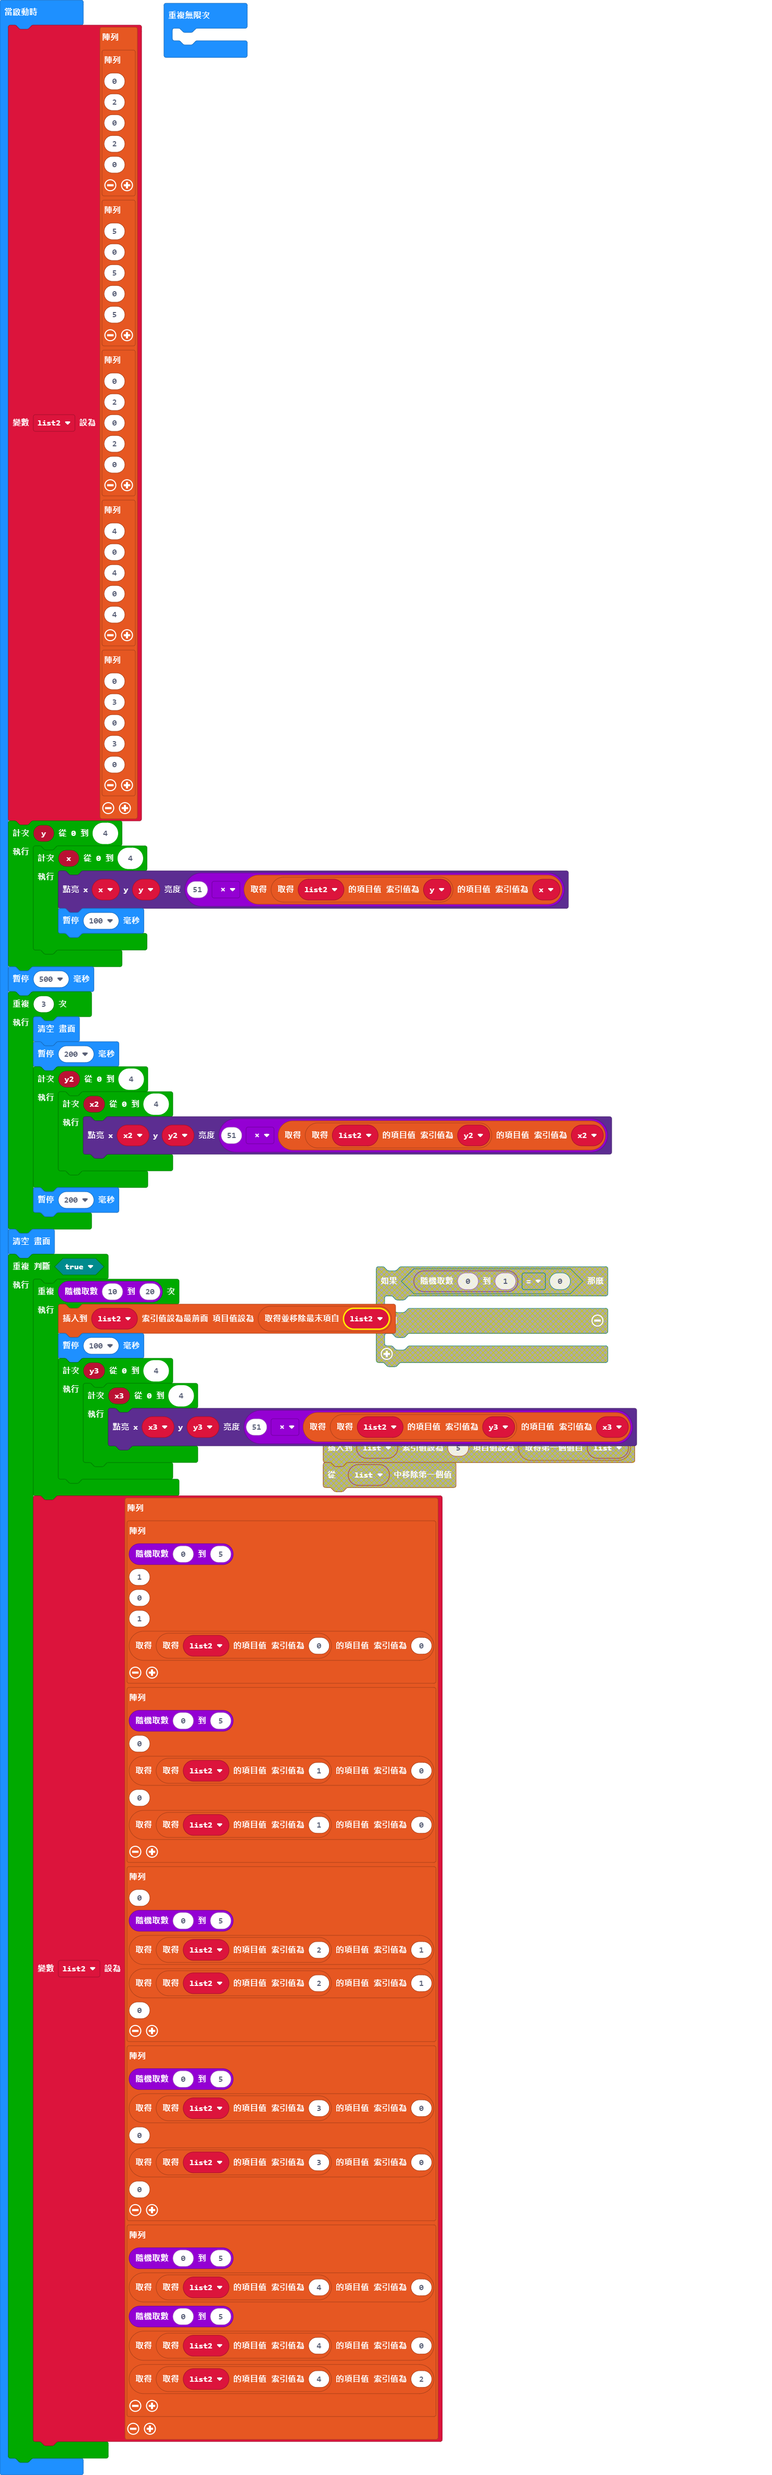
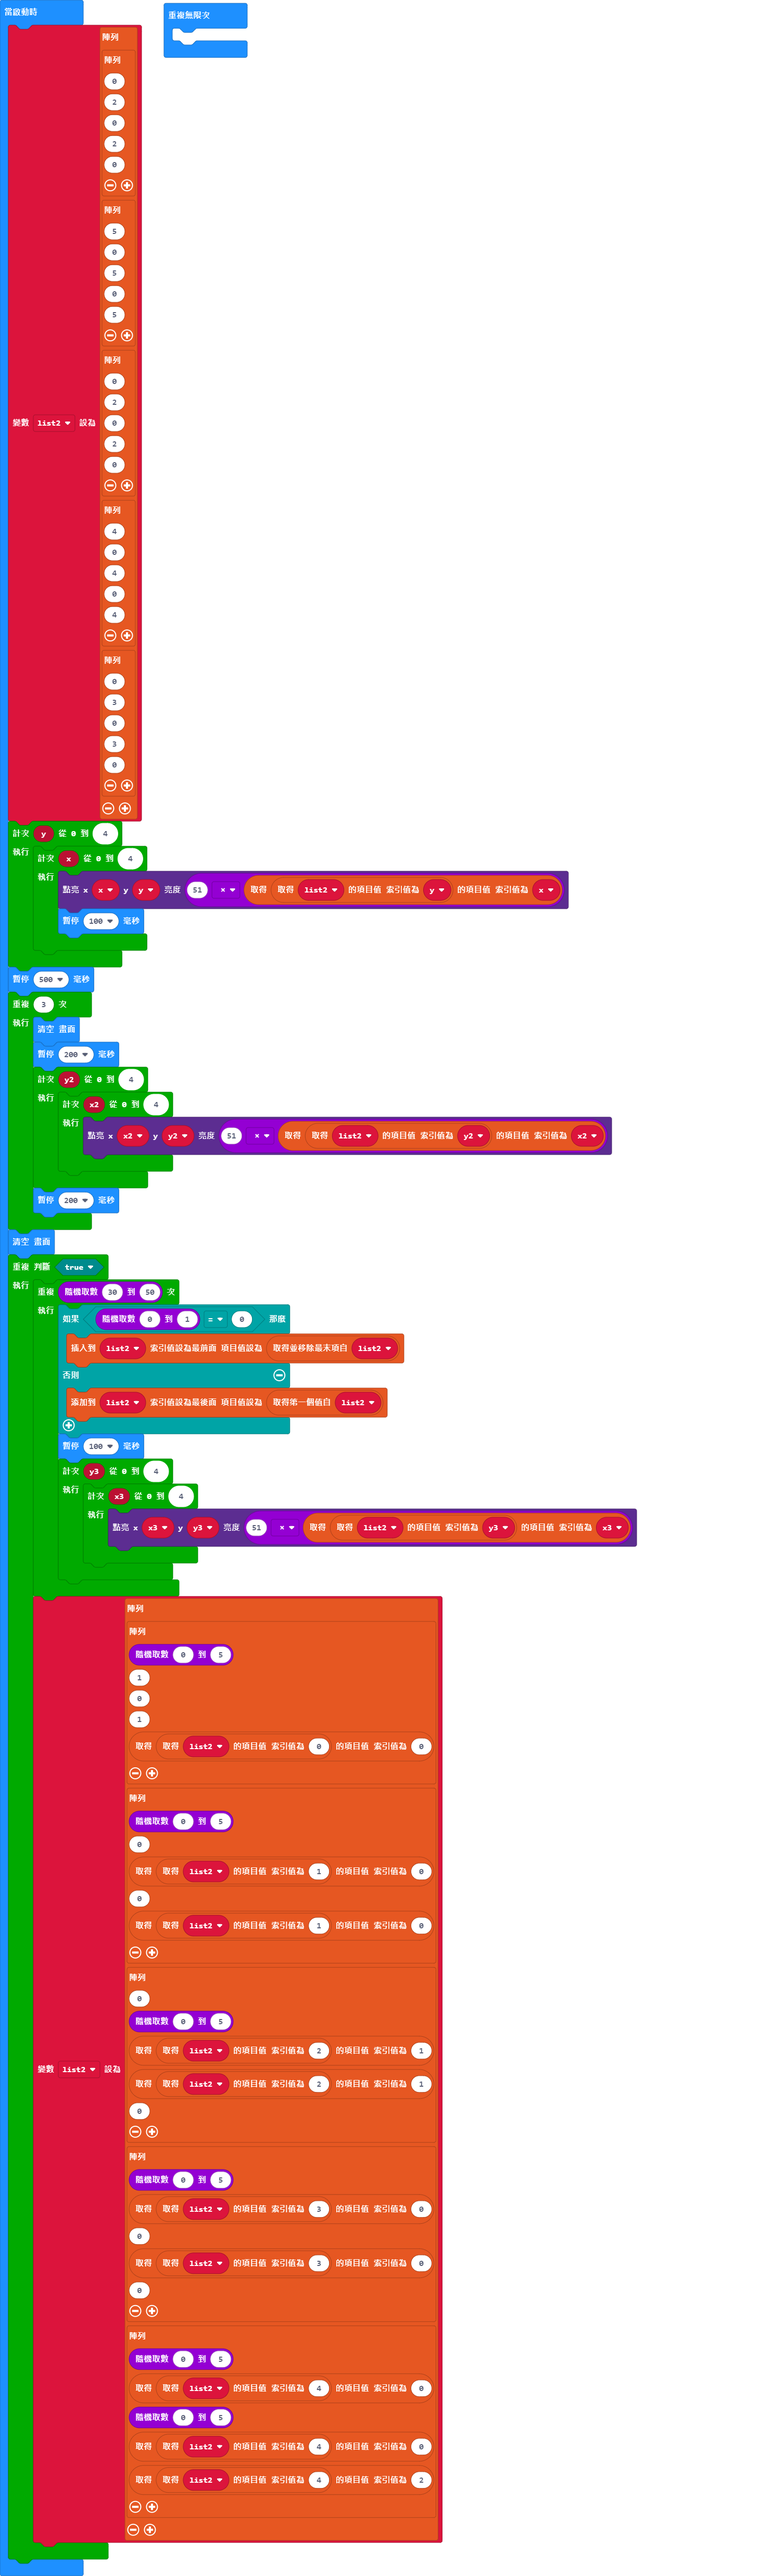
試圖做下到上，好像哪裡怪怪的

Changed region(s): [[0.0, 0.0, 0.8375, 0.9966], [0.2171, 0.0, 0.3102, 0.0311], [0.062, 0.7786, 0.0931, 0.8098]]

diff --git a/main.ts b/main.ts
@@ -54,8 +54,12 @@ for (let index = 0; index < 3; index++) {
 }
 basic.clearScreen()
 while (true) {
-    for (let index = 0; index < randint(10, 20); index++) {
-        list2.unshift(list2.pop())
+    for (let index = 0; index < randint(30, 50); index++) {
+        if (randint(0, 1) == 0) {
+            list2.unshift(list2.pop())
+        } else {
+            list2.push(list2.shift())
+        }
         basic.pause(100)
         for (let y3 = 0; y3 <= 4; y3++) {
             for (let x3 = 0; x3 <= 4; x3++) {

diff --git a/main.py b/main.py
@@ -17,8 +17,11 @@ for index in range(3):
     basic.pause(200)
 basic.clear_screen()
 while True:
-    for index2 in range(randint(10, 20)):
-        list2.unshift(list2.pop())
+    for index2 in range(randint(30, 50)):
+        if randint(0, 1) == 0:
+            list2.unshift(list2.pop())
+        else:
+            list2.append(list2.shift())
         basic.pause(100)
         for y3 in range(5):
             for x3 in range(5):
